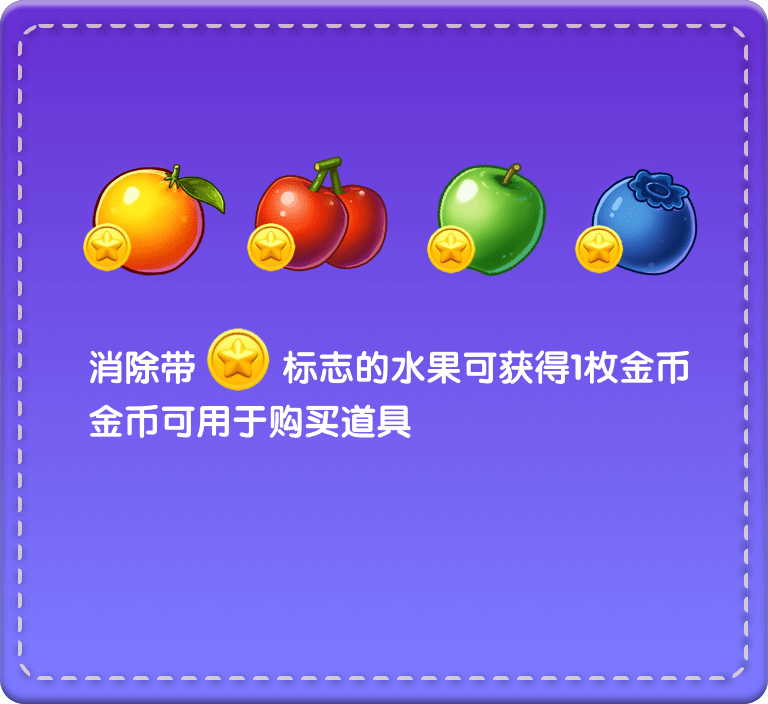
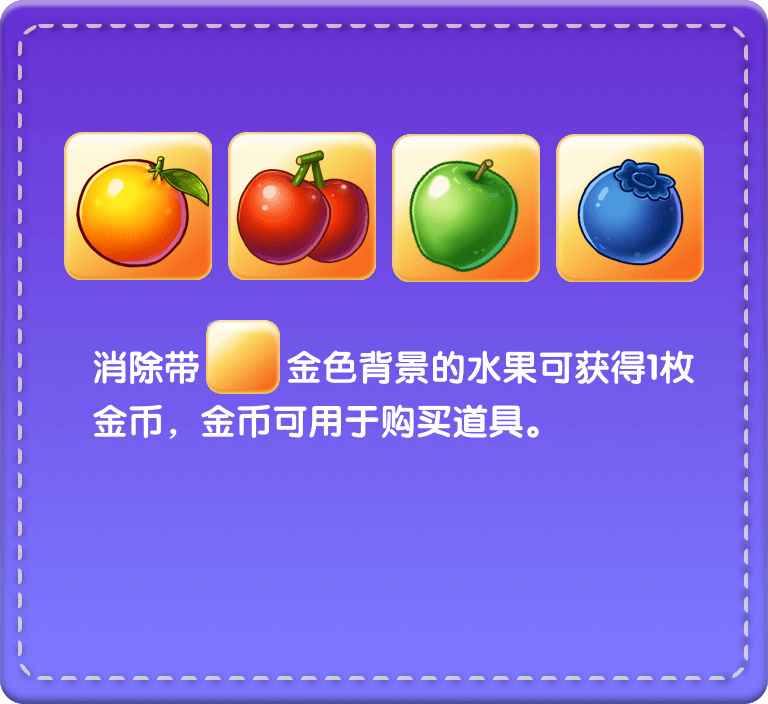
完善存档和crazy

Changed region(s): [[0.0625, 0.1875, 0.9375, 0.4062], [0.0938, 0.4375, 0.9062, 0.625]]

diff --git a/js/pages/gamePage/index.js b/js/pages/gamePage/index.js
@@ -17,14 +17,14 @@ let btt = databus.GameUI.boardToTOP //棋盘到顶部的距离
 let btlr = databus.GameUI.boardToLR //棋盘左右两边间距  
 let bi = databus.GameUI.boardInner //棋盘内边框  
 let pm = databus.GameUI.piecesMargin //棋子边距 
-let rulec = databus.GameUI.ruleCoordinates //规则按钮坐标宽高
 let sbc = databus.GameUI.scoreBgCoordinates //积分背景坐标宽高
+let rulec = databus.GameUI.ruleCoordinates //规则按钮坐标宽高
+let hc = databus.GameUI.homeCoordinates //首页按钮坐标宽高
+let mc = databus.GameUI.musicCoordinates //音乐按钮坐标宽高
 let sc = databus.GameUI.stepsCoordinates //步数坐标宽高
 let pec = databus.GameUI.progressEmptyCoordinates //空进度条坐标宽高
 let pec2 = databus.GameUI.progressEmpty2Coordinates //空进度条坐标宽高
 let pfc = databus.GameUI.progressFullCoordinates //满进度条坐标宽高
-let hc = databus.GameUI.homeCoordinates //首页按钮坐标宽高
-let mc = databus.GameUI.musicCoordinates //音乐按钮坐标宽高
 let setc = databus.GameUI.setCoordinates //设置按钮坐标宽高
 let asc = databus.GameUI.addStepsCoordinates //增加步数按钮坐标宽高
 let aspoc = databus.GameUI.addStepsPointCoordinates //增加步数红点坐标宽高
@@ -66,10 +66,7 @@ export default class Index {
       "boardBorderC": "images/gamePage/board/board_border_crazy.png",
       "addSteps": "images/gamePage/gameBtn/addStep_btn.png",
       "setIcon": "images/gamePage/gameBtn/set_btn.png",
-      "rule": "images/gamePage/icon_rule.png",
       "coin": "images/gamePage/gameBtn/coin_btn.png",
-      "home": "images/gamePage/icon_home.png",
-      "music": "images/gamePage/icon_music.png",
       "colorTool": "images/gamePage/gameBtn/color_btn.png",
       "progressEmpty": "images/gamePage/progress_empty.png",
       "progressEmpty2": "images/gamePage/progress_empty2.png",
@@ -97,6 +94,7 @@ export default class Index {
       "colorToolTips":"images/gamePage/colorToolTips.png",
       "colorToolCancel":"images/gamePage/colorToolCancel.png",
       "redplus":"images/gamePage/gameBtn/redplus.png",
+      "saveBtn":"images/gamePage/gameBtn/saveBtn.png",
     }
     //把所有的图片放到一个对象中
     this.Robj = {};	//两个对象有相同的k
@@ -257,12 +255,7 @@ export default class Index {
       //设置按钮
       ctx.drawImage(this.Robj["setIcon"], 0, 0, this.Robj["setIcon"].width, this.Robj["setIcon"].height, setc.x, setc.y, setc.w, setc.h);
 
-      // //绘制首页按钮
-      // ctx.drawImage(this.Robj["home"], 0, 0, this.Robj["home"].width, this.Robj["home"].height, hc.x, hc.y, hc.w, hc.h);
-      // //绘制规则按钮
-      // ctx.drawImage(this.Robj["rule"], 0, 0, this.Robj["rule"].width, this.Robj["rule"].height, rulec.x, rulec.y, rulec.w, rulec.h);
-      // //绘制音乐按钮
-      // ctx.drawImage(this.Robj["music"], 0, 0, this.Robj["music"].width, this.Robj["music"].height, mc.x, mc.y, mc.w, mc.h);
+      
       //绘制增加步数按钮
       ctx.drawImage(this.Robj["addSteps"], 0, 0, this.Robj["addSteps"].width, this.Robj["addSteps"].height, asc.x, asc.y, asc.w, asc.h);
       if(databus.usersteps != 0 || databus.usersteps != '0'){
@@ -309,7 +302,7 @@ export default class Index {
 
       
       //绘制存档道具按钮
-      ctx.drawImage(this.Robj["colorTool"], 0, 0, this.Robj["colorTool"].width, this.Robj["colorTool"].height, savetc.x, savetc.y, savetc.w, savetc.h);
+      ctx.drawImage(this.Robj["saveBtn"], 0, 0, this.Robj["saveBtn"].width, this.Robj["saveBtn"].height, savetc.x, savetc.y, savetc.w, savetc.h);
       
       //绘制金币图标
       ctx.drawImage(this.Robj["coin"], 0, 0, this.Robj["coin"].width, this.Robj["coin"].height, cc.x, cc.y, cc.w, cc.h);
@@ -376,7 +369,7 @@ export default class Index {
         this.gameEnd.render(ctx)
       }
 
-      if (databus.gameState == 3 || databus.gameState == 4 || databus.gameState == 5 || databus.gameState == 6 || databus.gameState == 7 || databus.gameState == 8 || databus.gameState == 9 || databus.gameState == 10 || databus.gameState == 11 || databus.gameState == 13) {
+      if (databus.gameState == 3 || databus.gameState == 4 || databus.gameState == 5 || databus.gameState == 6 || databus.gameState == 7 || databus.gameState == 8 || databus.gameState == 9 || databus.gameState == 10 || databus.gameState == 11 || databus.gameState == 13 || databus.gameState == 14 || databus.gameState == 15 || databus.gameState == 16) {
         this.gameModal.render(ctx)
       }
 
@@ -434,6 +427,10 @@ export default class Index {
     var self = this;
 
     if(!databus.archiveState){
+      //清除存档
+      wx.setStorageSync('archiveData', '')
+      databus.archiveState = false
+      //请求新开一局的游戏数据
       let options = {
         tradecode: 'game01',
         apiType: 'user',
@@ -510,6 +507,7 @@ export default class Index {
       databus.usersteps = archiveData.usersteps //用户拥有道具-步数
       databus.stepprice = archiveData.stepprice //用户购买道具-步数价格
 
+
       //地图，唯一的实例
       self.map = new Map(self.ctx)
       //添加监听
@@ -522,6 +520,10 @@ export default class Index {
       // 清除上一帧的动画
       window.cancelAnimationFrame(self.aniId)
       self.aniId = window.requestAnimationFrame(self.bindLoop, canvas)
+
+      //清除存档
+      wx.setStorageSync('archiveData', '')
+      databus.archiveState = false
 
     }
   }
@@ -874,34 +876,43 @@ export default class Index {
         this.music.playMusic('btnDown')
       }
 
-    } else if (databus.gameState == 1){//游戏进行中
-      // // 首页按钮事件
-      // if (x >= hc.x && x <= hc.x + hc.w && y >= hc.y && y <= hc.y + hc.h) {
-      //   databus.gameState = 6
-      //   //按钮按下音效
-      //   this.music.playMusic('btnDown')
-      // }
-      // // 规则按钮事件
-      // if (x >= rulec.x && x <= rulec.x + rulec.w && y >= rulec.y && y <= rulec.y + rulec.h) {
-      //   databus.gameState = 8
-      //   databus.fingerAniTime = 0
-      //   //隐藏广告
-      //   databus.bannerAd && databus.bannerAd.hide()
-      //   //按钮按下音效
-      //   this.music.playMusic('btnDown')
-      // }
-      // // 音乐按钮事件
-      // if (x >= mc.x && x <= mc.x + mc.w && y >= mc.y && y <= mc.y + mc.h) {
-      //   databus.gameState = 3
-      //   databus.musicBgState = databus.musicBg
-      //   databus.musicSoundState = databus.musicSound
-      //   //按钮按下音效
-      //   this.music.playMusic('btnDown')
-      // }
-
+    } else if(databus.gameState == 14){
       // 首页按钮事件
+      if (x >= hc.x && x <= hc.x + hc.w && y >= hc.y && y <= hc.y + hc.h) {
+        databus.gameState = 6
+        //按钮按下音效
+        this.music.playMusic('btnDown')
+      }
+      // 规则按钮事件
+      if (x >= rulec.x && x <= rulec.x + rulec.w && y >= rulec.y && y <= rulec.y + rulec.h) {
+        databus.gameState = 8
+        databus.fingerAniTime = 0
+        //隐藏广告
+        databus.bannerAd && databus.bannerAd.hide()
+        //按钮按下音效
+        this.music.playMusic('btnDown')
+      }
+      // 音乐按钮事件
+      if (x >= mc.x && x <= mc.x + mc.w && y >= mc.y && y <= mc.y + mc.h) {
+        databus.gameState = 3
+        databus.musicBgState = databus.musicBg
+        databus.musicSoundState = databus.musicSound
+        //按钮按下音效
+        this.music.playMusic('btnDown')
+      }
+
+      // 设置按钮事件
       if (x >= setc.x && x <= setc.x + setc.w && y >= setc.y && y <= setc.y + setc.h) {
-        // databus.gameState = 14
+        databus.gameState = 1
+        //按钮按下音效
+        this.music.playMusic('btnDown')
+      }
+
+    }else if (databus.gameState == 1){//游戏进行中
+
+      // 设置按钮事件
+      if (x >= setc.x && x <= setc.x + setc.w && y >= setc.y && y <= setc.y + setc.h) {
+        databus.gameState = 14
         //按钮按下音效
         this.music.playMusic('btnDown')
       }

diff --git a/js/pages/gamePage/gameModal.js b/js/pages/gamePage/gameModal.js
@@ -4,6 +4,11 @@ let databus = new DataBus()
 let uiWidth = 828;
 let ratio = canvas.width / uiWidth //设计稿宽度
 
+
+let rulec = databus.GameUI.ruleCoordinates //规则按钮坐标宽高
+let hc = databus.GameUI.homeCoordinates //首页按钮坐标宽高
+let mc = databus.GameUI.musicCoordinates //音乐按钮坐标宽高
+
 let R = {
   "gameEndBg": "images/gameEnd/gameEndBg.png",
   "addSteps": "images/gameModal/add_steps.png",
@@ -26,11 +31,19 @@ let R = {
   "coin": "images/gameModal/coin.png",
   "saveModal": "images/gamePage/archive/save_modal.png",
   "saveBtn": "images/gamePage/archive/save_game.png",
+  "rule": "images/gamePage/gameBtn/rule.png",
+  "home": "images/gamePage/gameBtn/home.png",
+  "music": "images/gamePage/gameBtn/music.png",
+  "crazyBtnFree": "images/gamePage/crazyTime/crazy_btn_free.png",
+  "crazyBtnVideo": "images/gamePage/crazyTime/crazy_btn_video.png",
+  "crazyEndModal": "images/gamePage/crazyTime/endModal.png",
+  "crazyStartModal": "images/gamePage/crazyTime/startModal.png",
+  "okBtn": "images/gamePage/crazyTime/ok_btn.png",
 }
 
 //把所有的图片放到一个对象中
 let Robj = {};	//两个对象有相同的k
-// 遍历R对象，把真实image对象，放入this.Robj中
+// 遍历R对象，把真实image对象，放入Robj中
 for (var k in R) {
   Robj[k] = wx.createImage();
   Robj[k].src = R[k];
@@ -417,6 +430,67 @@ export default class GameModal {
         //弹框确认
         ctx.drawImage(Robj["saveBtn"], 0, 0, Robj["saveBtn"].width, Robj["saveBtn"].height, 252 * ratio, 770 * ratio, 324 * ratio, 142 * ratio);
       }
+    }
+
+    //14设置
+    if(databus.gameState == 14){
+      //绘制首页按钮
+      ctx.drawImage(Robj["home"], 0, 0, Robj["home"].width, Robj["home"].height, hc.x, hc.y, hc.w, hc.h);
+      //绘制规则按钮
+      ctx.drawImage(Robj["rule"], 0, 0, Robj["rule"].width, Robj["rule"].height, rulec.x, rulec.y, rulec.w, rulec.h);
+      //绘制音乐按钮
+      ctx.drawImage(Robj["music"], 0, 0, Robj["music"].width, Robj["music"].height, mc.x, mc.y, mc.w, mc.h);
+    }
+
+    //15:crazy开始
+    if (databus.gameState == 15) {
+      //绘制背景
+      ctx.drawImage(Robj["gameEndBg"], 0, 0, canvas.width, canvas.height);
+      //弹框
+      ctx.drawImage(Robj["crazyStartModal"], 0, 0, Robj["crazyStartModal"].width, Robj["crazyStartModal"].height, 41 * ratio, 300 * ratio, 746 * ratio, 754 * ratio);
+      //弹框关闭
+      ctx.drawImage(Robj["modalClose"], 0, 0, Robj["modalClose"].width, Robj["modalClose"].height, 0 * ratio, 250 * ratio, 150 * ratio, 162 * ratio);
+      
+      if (databus.btnPlus > 0 && databus.btnPlus < 10) {
+        databus.btnPlus++
+        if(databus.crazyTimes < 1){
+          //弹框确认
+          ctx.drawImage(Robj["crazyBtnFree"], 0, 0, Robj["crazyBtnFree"].width, Robj["crazyBtnFree"].height, (198 - 21.6) * ratio, (790 - 8.7) * ratio, 432 * 1.1 * ratio, 174 * 1.1 * ratio);
+        }else{
+          //弹框确认
+          ctx.drawImage(Robj["crazyBtnVideo"], 0, 0, Robj["crazyBtnVideo"].width, Robj["crazyBtnVideo"].height, (198 - 21.6) * ratio, (790 - 7.2) * ratio, 432 * 1.1 * ratio, 174 * 1.1 * ratio);
+        }
+      } else {
+        databus.btnPlus = 0
+        if(databus.crazyTimes < 1){
+          //弹框确认
+          ctx.drawImage(Robj["crazyBtnFree"], 0, 0, Robj["crazyBtnFree"].width, Robj["crazyBtnFree"].height, 198 * ratio, 790 * ratio, 432 * ratio, 174 * ratio);
+        }else{
+          //弹框确认
+          ctx.drawImage(Robj["crazyBtnVideo"], 0, 0, Robj["crazyBtnVideo"].width, Robj["crazyBtnVideo"].height, 198 * ratio, 790 * ratio, 432 * ratio, 174 * ratio);
+        }
+      }
+    }
+
+
+    //16:crazy结束
+    if (databus.gameState == 16) {
+      //绘制背景
+      ctx.drawImage(Robj["gameEndBg"], 0, 0, canvas.width, canvas.height);
+      //弹框
+      ctx.drawImage(Robj["crazyEndModal"], 0, 0, Robj["crazyEndModal"].width, Robj["crazyEndModal"].height, 41 * ratio, 300 * ratio, 746 * ratio, 754 * ratio);
+      //弹框关闭
+      ctx.drawImage(Robj["modalClose"], 0, 0, Robj["modalClose"].width, Robj["modalClose"].height, 0 * ratio, 250 * ratio, 150 * ratio, 162 * ratio);
+      
+      if (databus.btnPlus > 0 && databus.btnPlus < 10) {
+        databus.btnPlus++
+        ctx.drawImage(Robj["okBtn"], 0, 0, Robj["okBtn"].width, Robj["okBtn"].height, (198 - 21.6) * ratio, (790 - 8.7) * ratio, 432 * 1.1 * ratio, 174 * 1.1 * ratio);
+      } else {
+        databus.btnPlus = 0
+        //弹框确认
+        ctx.drawImage(Robj["okBtn"], 0, 0, Robj["okBtn"].width, Robj["okBtn"].height, 198 * ratio, 790 * ratio, 432 * ratio, 174 * ratio);
+      }
+
     }
   }
 }

diff --git a/js/pages/gamePage/map.js b/js/pages/gamePage/map.js
@@ -405,10 +405,19 @@ export default class Map {
   showCombo() {
     if (this.gclCombo == 0 || !this.sc) return;
     if (this.sc) {
-      //显示Combo
-      this.ctx.drawImage(Robj["combo3"], 0, 0, Robj["combo3"].width, Robj["combo3"].height, (uiWidth - 225) / 2 * ratio, 680 * ratio, 225 * ratio, 48 * ratio);
-      this.ctx.drawImage(Robj["comboNum" + this.gclCombo], 0, 0, Robj["comboNum" + this.gclCombo].width, Robj["comboNum" + this.gclCombo].height, (uiWidth - 225) / 2 * ratio + 230 * ratio, 680 * ratio, 30 * ratio, 46 * ratio);
-      this.gclTime++
+      if(this.gclCombo < 10){
+        //显示Combo
+        this.ctx.drawImage(Robj["combo3"], 0, 0, Robj["combo3"].width, Robj["combo3"].height, (uiWidth - 225) / 2 * ratio, 680 * ratio, 225 * ratio, 48 * ratio);
+        this.ctx.drawImage(Robj["comboNum" + this.gclCombo], 0, 0, Robj["comboNum" + this.gclCombo].width, Robj["comboNum" + this.gclCombo].height, (uiWidth - 225) / 2 * ratio + 230 * ratio, 680 * ratio, 30 * ratio, 46 * ratio);
+        this.gclTime++
+      }else{
+        const numArr = (this.gclCombo + '').split('')
+        //显示Combo
+        this.ctx.drawImage(Robj["combo3"], 0, 0, Robj["combo3"].width, Robj["combo3"].height, (uiWidth - 225) / 2 * ratio, 680 * ratio, 225 * ratio, 48 * ratio);
+        this.ctx.drawImage(Robj["comboNum" + numArr[0]], 0, 0, Robj["comboNum" + numArr[0]].width, Robj["comboNum" + numArr[0]].height, (uiWidth - 225) / 2 * ratio + 230 * ratio, 680 * ratio, 30 * ratio, 46 * ratio);
+        this.ctx.drawImage(Robj["comboNum" + numArr[1]], 0, 0, Robj["comboNum" + numArr[1]].width, Robj["comboNum" + numArr[1]].height, (uiWidth - 225) / 2 * ratio + 230 * ratio + 40 * ratio, 680 * ratio, 30 * ratio, 46 * ratio);
+        this.gclTime++
+      }
     }
   }
   //判断是否过关

diff --git a/js/databus.js b/js/databus.js
@@ -182,8 +182,8 @@ export default class DataBus {
       boardWH: 0, //棋盘宽高
       piecesWH: 0, //棋子宽高
       ruleCoordinates: { //规则坐标宽高
-        x: 40 * ratio,
-        y: 1046 * ratio + this.gameTop,
+        x: 15 * ratio,
+        y: 830 * ratio + this.gameTop,
         w: 180 * ratio,
         h: 74 * ratio
       },
@@ -218,16 +218,16 @@ export default class DataBus {
         h: 26 * ratio,
       },
       homeCoordinates: { //首页坐标宽高
-        x: 44 * ratio,
-        y: 1126 * ratio + this.gameTop,
-        w: 82 * ratio,
-        h: 82 * ratio,
+        x: 15 * ratio,
+        y: 910 * ratio + this.gameTop,
+        w: 180 * ratio,
+        h: 74 * ratio
       },
       musicCoordinates: { //音乐坐标宽高
-        x: 142 * ratio,
-        y: 1126 * ratio + this.gameTop,
-        w: 82 * ratio,
-        h: 82 * ratio,
+        x: 15 * ratio,
+        y: 990 * ratio + this.gameTop,
+        w: 180 * ratio,
+        h: 74 * ratio
       },
       setCoordinates: { //设置坐标宽高
         x: 45 * ratio,
@@ -457,6 +457,9 @@ export default class DataBus {
     this.buyTips = false //购买提示
     this.stepsAni = false //步数动画
 
+    this.isCrazy = false //是否crazy
+    this.crazyTimes = 0 //crazy次数
+    
     this.QRcode = [] //棋盘数据
     this.score = 0 //每次开始默认分数、当前关卡获得分数
     this.gameScore = 0 //本轮游戏总分

diff --git a/js/main.js b/js/main.js
@@ -78,7 +78,7 @@ export default class Main {
     self.music = new Music()
    
     //每隔50毫秒判断一次场景是否发生变化
-    let timeLine = setInterval(() => {  
+    let timeLine = setInterval(() => {
       //首页
       if (databus.scene == 0) {
         if (!pageState.homePage) {
